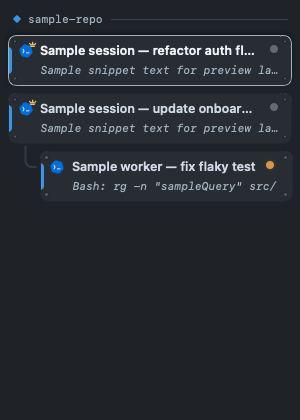
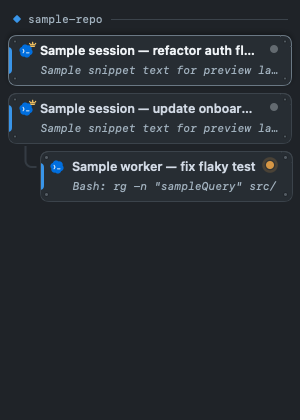
Balance inactive and active borders

diff --git a/app/Sources/App/SharedUI/Theme.swift b/app/Sources/App/SharedUI/Theme.swift
@@ -10,11 +10,11 @@ enum AppPalette {
     static let artifactViewerBackground = artifactListColumn
     static let terminal = window
     static let line = NSColor(hex: 0x444c56)
-    static let lineSoft = NSColor(hex: 0x282d35)
-    static let lineSoftSubtle = NSColor(hex: 0x1f242b)
+    static let lineSoft = line
+    static let lineSoftSubtle = NSColor(hex: 0x373e47)
     static let controlFill = item
     static let controlBorder = NSColor(hex: 0x768390)
-    static let activeControlBorder = muted
+    static let activeControlBorder = controlBorder
     static let activeText = NSColor(hex: 0xe6edf3)
     static let text = NSColor(hex: 0xd8dee9)
     static let bright = NSColor(hex: 0xf2f5f8)
